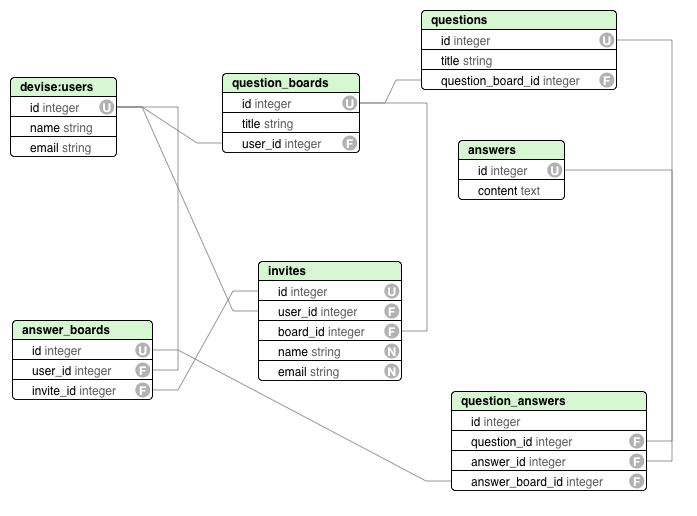
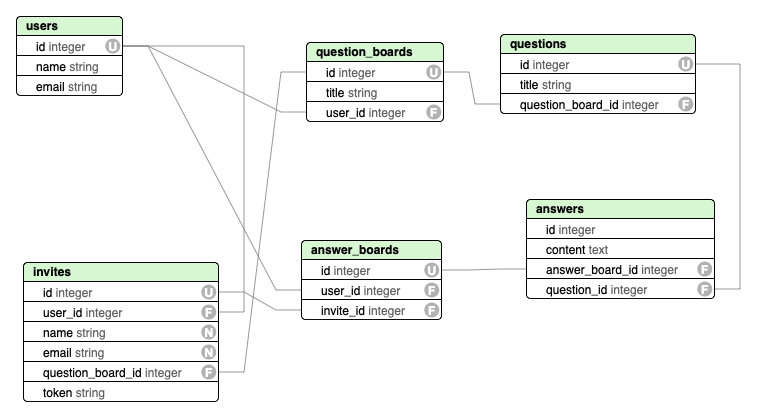
ER図の更新

diff --git a/README.md b/README.md
@@ -10,13 +10,8 @@
 - マネージャーはGoogle Authでログインできる
 - 質問は初期設定されている
 - 質問のカスタマイズができる
-- メンバーの招待ができる
-- 「名前」「メールアドレス」「1on1の頻度」「開始日」を登録して、メンバーを招待できる。
-- 頻度を選べる。「毎週」「2週ごと」「1ヶ月ごと」
-
 - メンバーに回答依頼をメールで送信できる
 - メールから回答ページが開ける
-- 回答したことをマネージャーにメールで通知する
 - 過去の回答が確認できる
 
 ## ER Diagram
